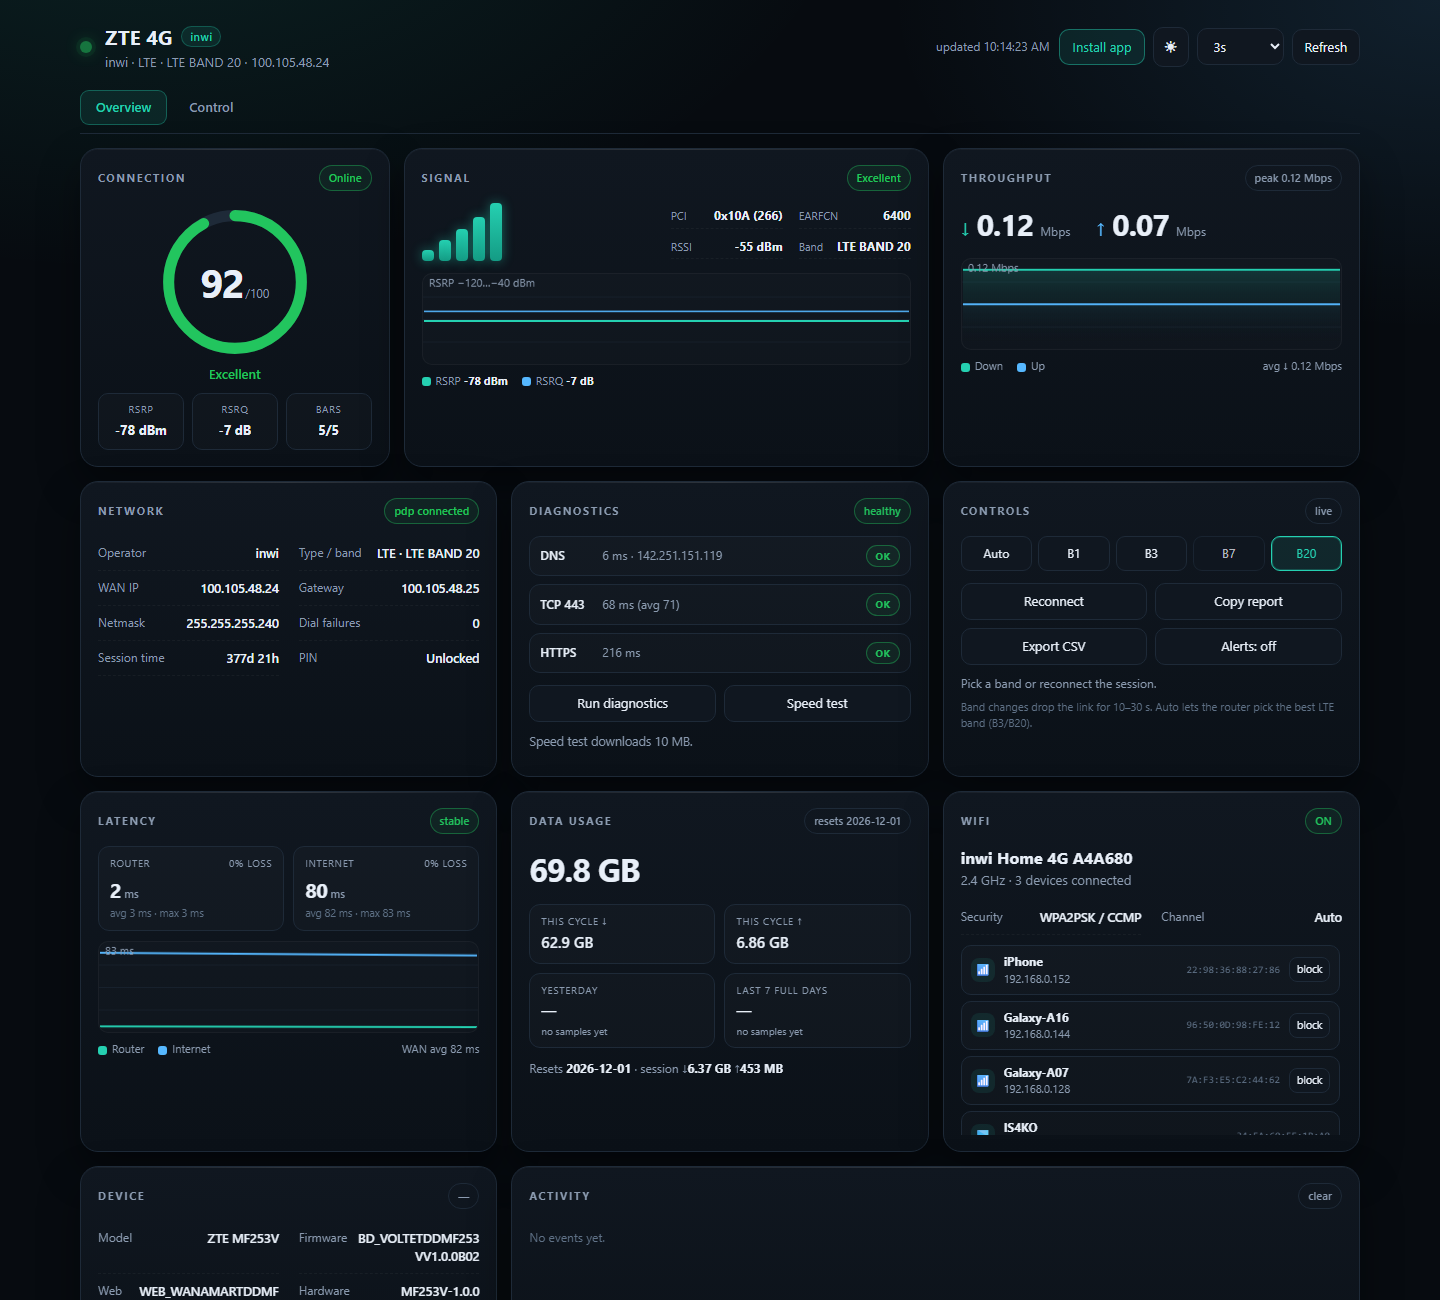
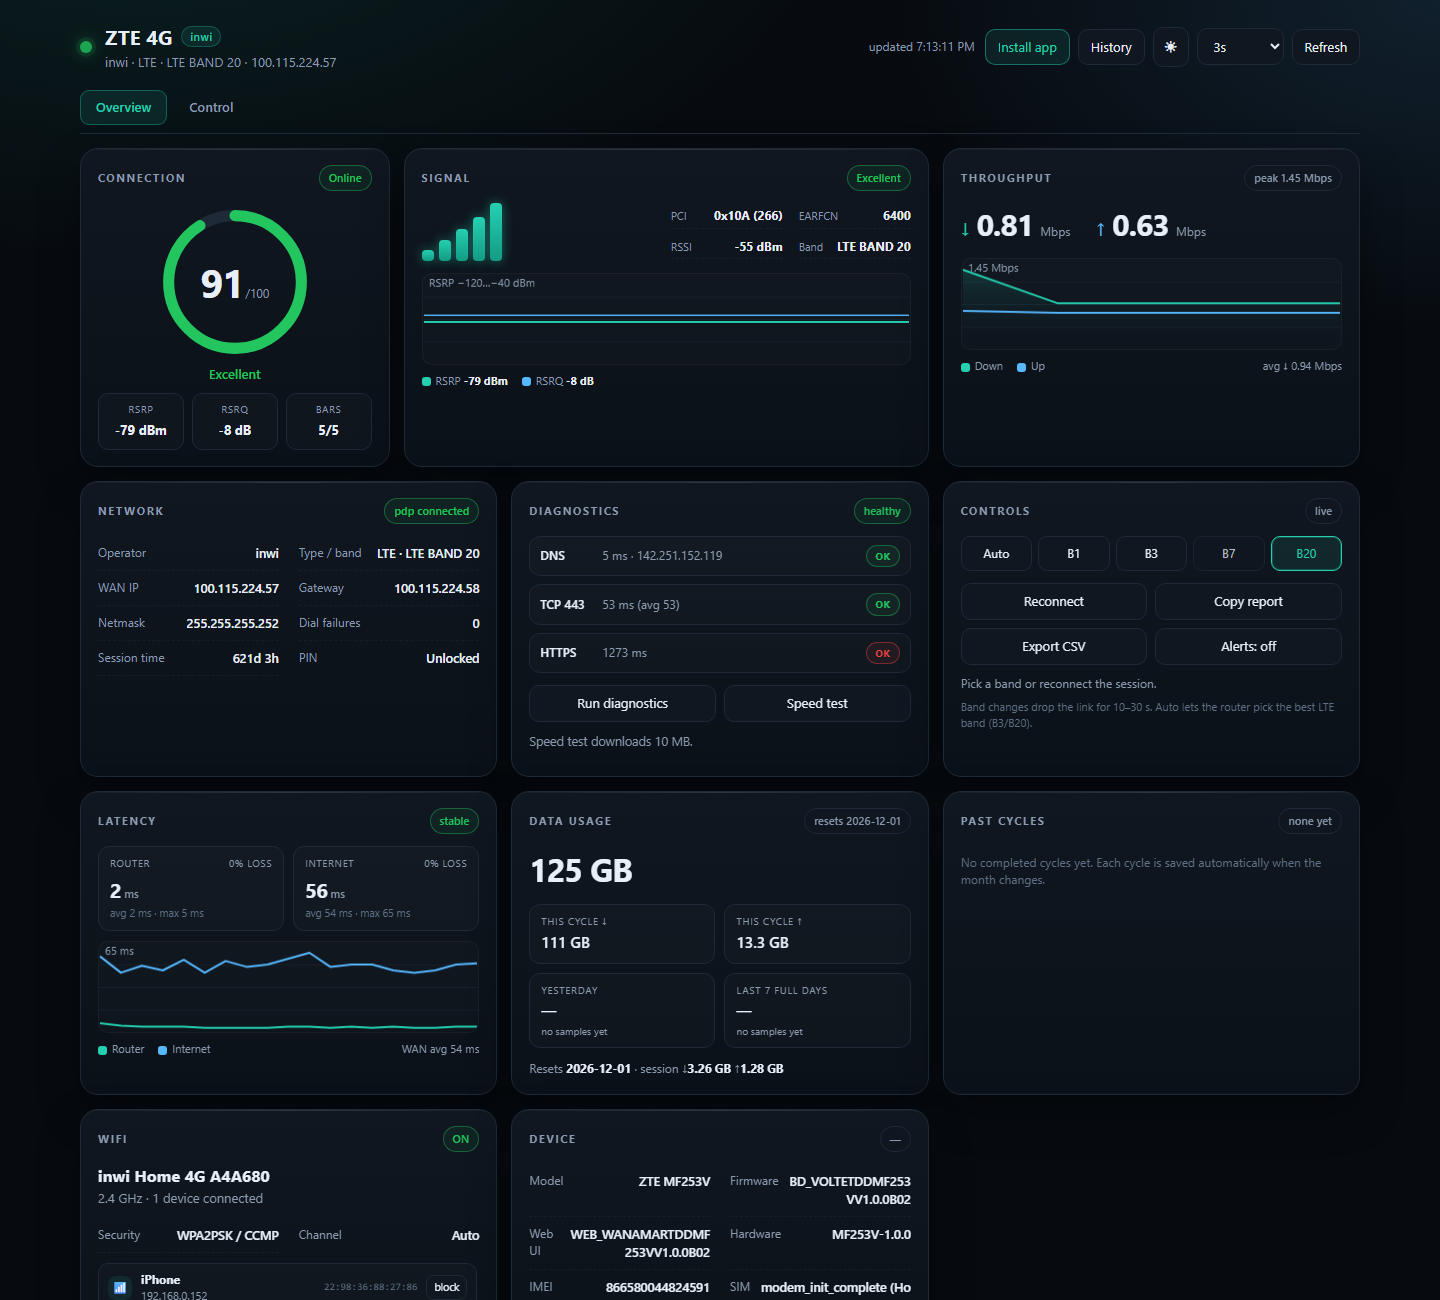
Add History button with saved-cycle dialog
Top-bar button opens a panel listing the current cycle and all saved
previous cycles, with down/up and total per month.

diff --git a/index.html b/index.html
@@ -322,7 +322,14 @@
   .blockRow .bm span{color:var(--dim);font-family:ui-monospace,Consolas,monospace;font-size:10px}
   .blockRow button{padding:4px 8px;font-size:11px}
   .client .blockBtn{padding:4px 7px;font-size:10.5px;border-radius:8px;flex:none}
-</style>
+  /* ---------- history dialog ---------- */
+  .modal{position:fixed;inset:0;background:rgba(0,0,0,.62);display:none;align-items:center;justify-content:center;padding:16px;z-index:60}
+  .modal.show{display:flex}
+  .modalCard{background:var(--panel);border:1px solid var(--line);border-radius:16px;width:min(520px,100%);max-height:80vh;overflow:auto;padding:18px}
+  .modalHead{display:flex;align-items:center;justify-content:space-between;gap:10px;margin-bottom:10px}
+  .modalHead h2{margin:0;font-size:11px;font-weight:700;letter-spacing:1.6px;text-transform:uppercase;color:var(--muted)}
+  .modalCard .clientList{margin-top:0;max-height:none}
+  </style>
 </head>
 <body>
 <div class="app">
@@ -337,6 +344,7 @@
     <div class="controls">
       <span class="updated" id="lastUpdate">—</span>
       <button id="installBtn" class="primary" hidden>Install app</button>
+      <button id="historyBtn" title="Saved data usage by cycle">History</button>
       <button class="iconBtn" id="themeBtn" title="Toggle light / dark">☀</button>
       <select id="interval" title="Refresh interval">
         <option value="1000">1s</option>
@@ -670,6 +678,13 @@
   </main>
 
   <footer>Local dashboard · proxied from <b id="routerIp">192.168.0.1</b> · <span id="ivl">3s</span> refresh · v3.0</footer>
+
+  <div class="modal" id="historyModal" role="dialog" aria-modal="true" aria-label="Data usage history">
+    <div class="modalCard">
+      <div class="modalHead"><h2>Data usage history</h2><button id="historyClose" title="Close">✕</button></div>
+      <div class="clientList" id="historyModalList"><div class="empty">Loading…</div></div>
+    </div>
+  </div>
 </div>
 
 <script>
@@ -1381,15 +1396,17 @@ async function loadHistory() {
     const res = await fetch('/api/history', { cache: 'no-store' });
     const j = await res.json();
     if (!j.ok) return;
-    const past = (j.cycles || []).filter((c) => !c.current);
+    const all = j.cycles || [];
+    const past = all.filter((c) => !c.current);
+    const row = (c) =>
+      '<div class="client"><div class="cIcon">📅</div><div class="cMain">' +
+      '<b>' + (c.current ? 'This cycle' : 'Cycle ' + esc(fmtDate(c.month))) + '</b>' +
+      '<span>↓ ' + fmtBytes(c.rx) + ' · ↑ ' + fmtBytes(c.tx) + '</span>' +
+      '</div><div class="cMac">' + esc(fmtBytes(c.total)) + '</div></div>';
+    const empty = '<div class="empty">No completed cycles yet. Each cycle is saved automatically when the month changes.</div>';
     $('historyChip').textContent = past.length ? past.length + ' saved' : 'none yet';
-    $('historyList').innerHTML = past.length
-      ? past.map((c) =>
-          '<div class="client"><div class="cIcon">📅</div><div class="cMain">' +
-          '<b>Cycle ' + esc(fmtDate(c.month)) + '</b><span>↓ ' + fmtBytes(c.rx) + ' · ↑ ' + fmtBytes(c.tx) + '</span>' +
-          '</div><div class="cMac">' + esc(fmtBytes(c.total)) + '</div></div>'
-        ).join('')
-      : '<div class="empty">No completed cycles yet. Each cycle is saved automatically when the month changes.</div>';
+    $('historyList').innerHTML = past.length ? past.map(row).join('') : empty;
+    $('historyModalList').innerHTML = all.length ? all.map(row).join('') : empty;
   } catch (_) { /* ignore */ }
 }
 function renderUsageWindow(w, key) {
@@ -2049,6 +2066,10 @@ loadClients();
 loadLatency();
 loadUsage();
 loadHistory();
+$('historyBtn').addEventListener('click', () => { loadHistory(); $('historyModal').classList.add('show'); });
+$('historyClose').addEventListener('click', () => $('historyModal').classList.remove('show'));
+$('historyModal').addEventListener('click', (e) => { if (e.target === $('historyModal')) $('historyModal').classList.remove('show'); });
+document.addEventListener('keydown', (e) => { if (e.key === 'Escape') $('historyModal').classList.remove('show'); });
 setInterval(runDiag, 30000);
 setInterval(loadClients, 30000);
 setInterval(loadLatency, 5000);

diff --git a/README.md b/README.md
@@ -28,8 +28,8 @@ origin. No dependencies, no build step, no cloud.
 - Speed test — server-side 10 MB download, Mbps and MB/s, local history
 - Data usage — live cycle total, yesterday (00:00–24:00), last 7 full days,
   session totals, optional plan-limit bar
-- Past cycles — final ↓/↑ totals for previous months, kept after the router
-  resets its counters
+- Past cycles — click **History** in the top bar to see the current and all
+  saved cycles; previous months stay after the router resets its counters
 - Daily availability report — uptime, WAN latency and loss per day, CSV export
 - Connected clients — WiFi and LAN devices with name, IP and MAC
 - Activity log — link, DNS, signal, band, reconnect and speed-test events
